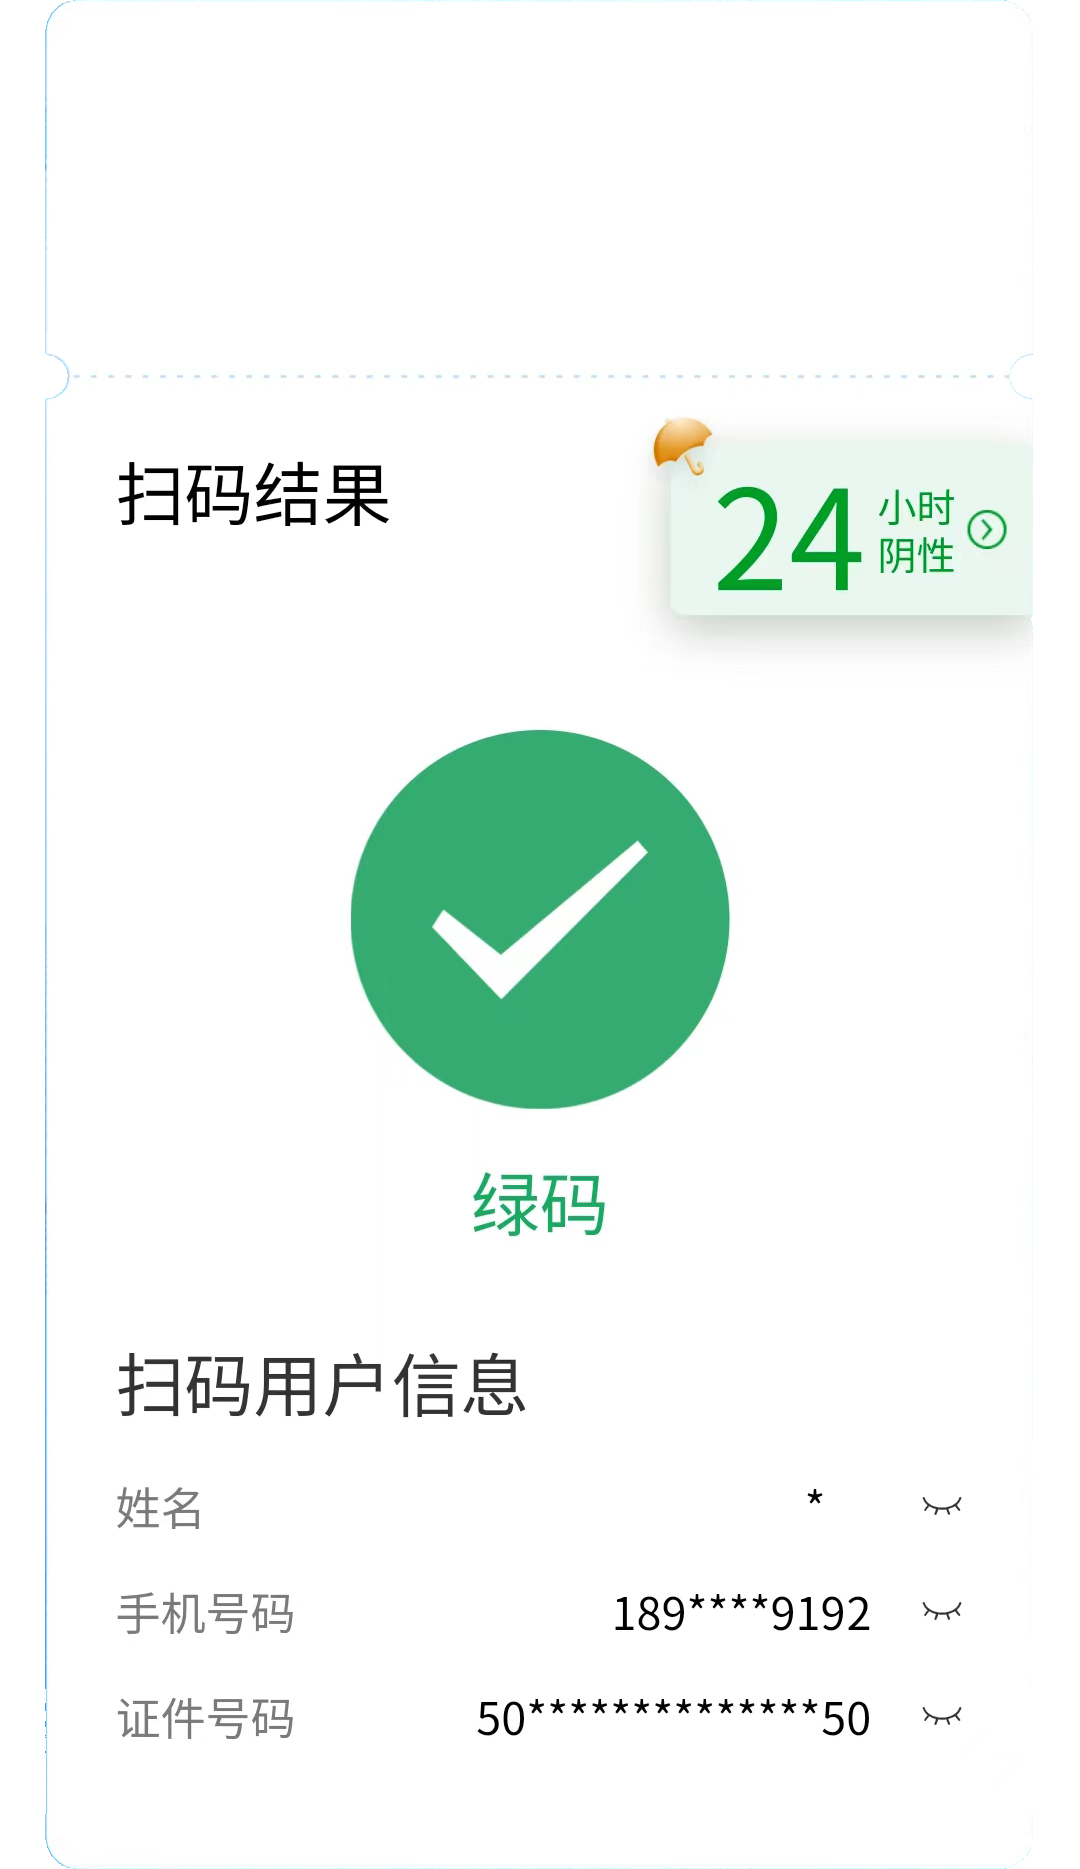
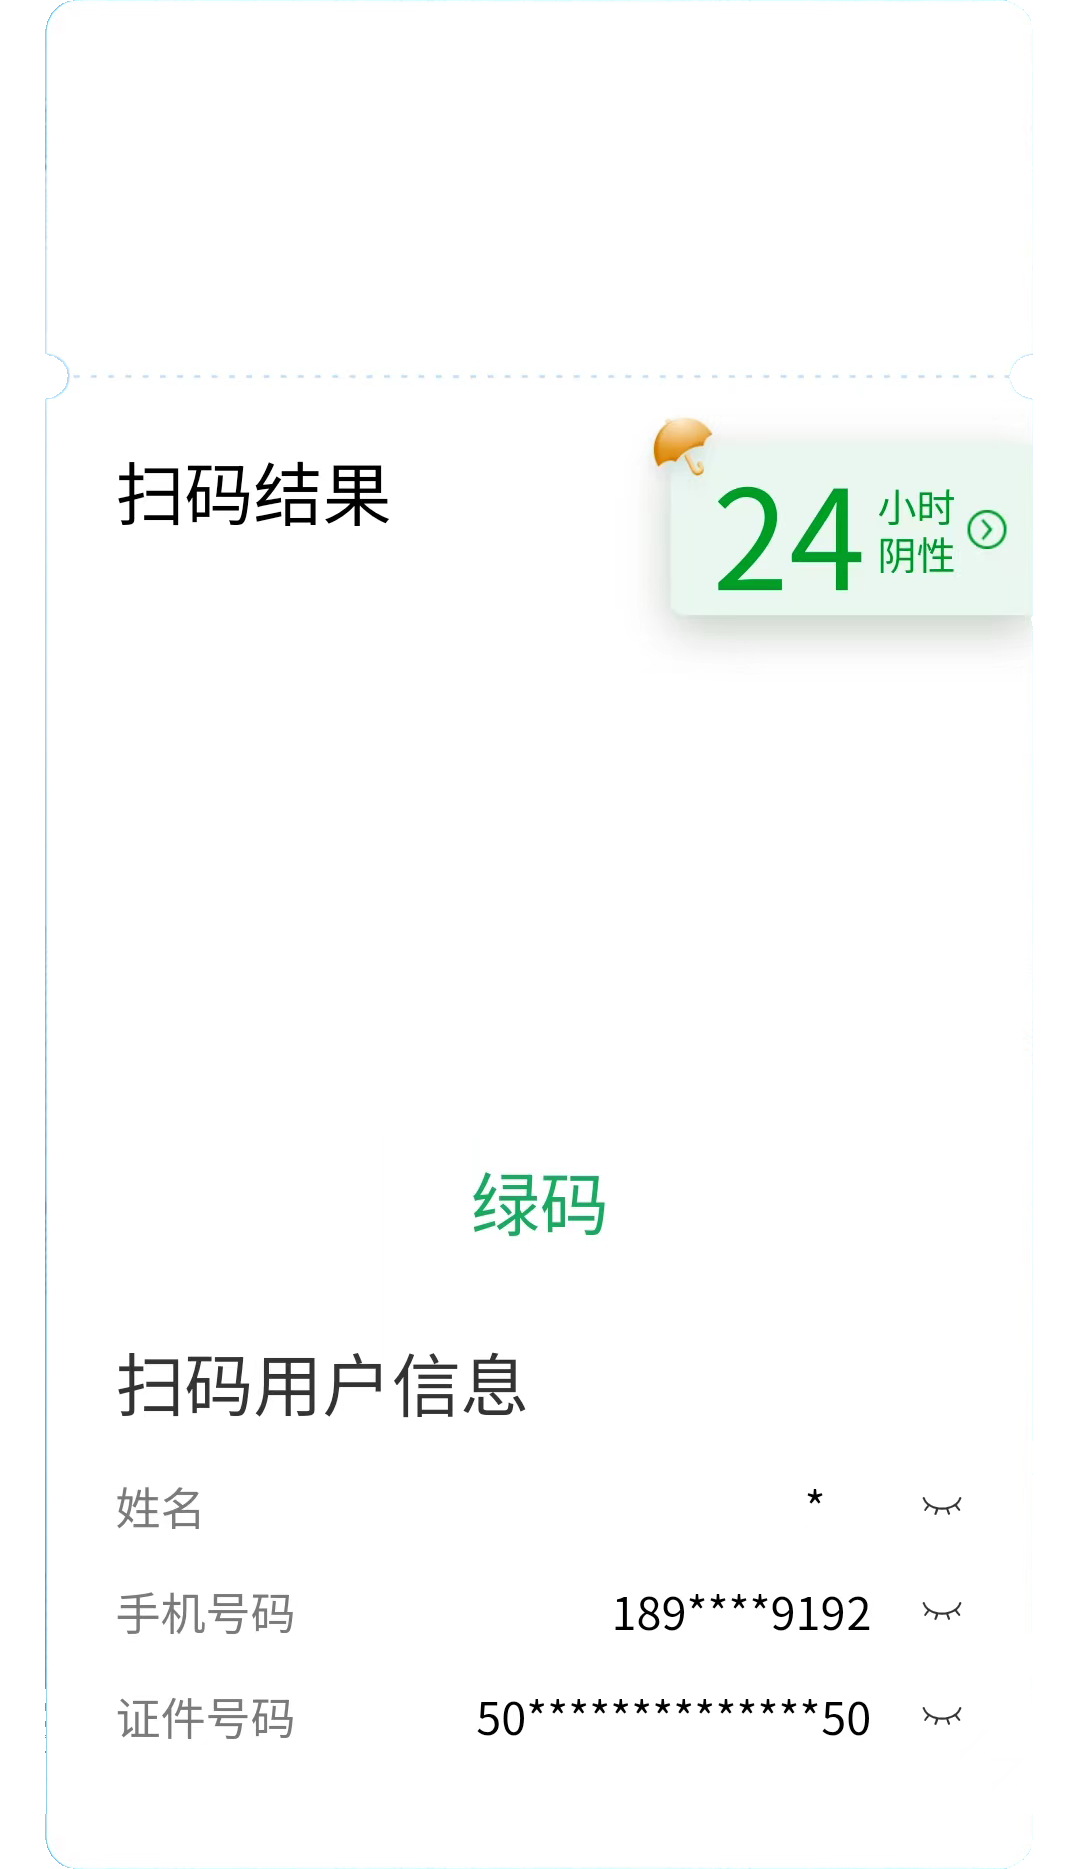
场所码动画

Changed region(s): [[0.3056, 0.3724, 0.6722, 0.6207]]

diff --git a/src/scan_result.js b/src/scan_result.js
@@ -1,14 +1,17 @@
 import React, {useEffect, useRef, useState} from "react";
 import "./scan-result.css";
 import ScanResultImg from './assets/scan_result.png';
+import ScanResultRight from './assets/scan_result_right.png';
 import ScanBtns from './assets/scan_btns.png';
 import ScanBg from './assets/scan_bg.png';
 import { Outlet, Link } from "react-router-dom";
 function ScanResult(){
     let scanBtnRef = useRef();
     let scanResultRef = useRef();
+    let RightRef = useRef();
     let [btnHeight,setBtnHeight] = useState(0);
     let [resultHeight,setResultHeight] = useState(675);
+    let [rightHeight,setRightHeight] = useState(156);
     let [time,setTime] = useState('');
 
     let [location,setLocation] = useState('莎莎一号舞厅91号入口');
@@ -23,6 +26,7 @@ function ScanResult(){
         let times = setInterval(()=>{
             setBtnHeight(scanBtnRef.current.offsetHeight);
             setResultHeight(scanResultRef.current.offsetHeight);
+            setRightHeight(RightRef.current.offsetHeight);
         },300)
         return () => {
             clearInterval(times);
@@ -120,6 +124,9 @@ function ScanResult(){
                 <img className={'scan-bg'} src={ScanBg} alt={''}/>
                 <div className={'scan-result-img-wrapper'} style={{paddingBottom:btnHeight + 15}}>
                     <img className={'scan-result-img'} src={ScanResultImg} alt={''} ref={scanResultRef}/>
+                    <div className={'scan-result-right-wrapper'}  style={{top: resultHeight / 2 - rightHeight / 2}}>
+                        <img className={'scan-result-right anima'} src={ScanResultRight} alt={''} ref={RightRef}/>
+                    </div>
                     <div className={'scan-time'} style={{top:resultHeight / 8 * 2 + 40}}>{time}</div>
                     <div className={'scan-location-location'}>{location}</div>
                     <div className={'scan-location-area'}>重庆市/{area}</div>

diff --git a/src/scan-result.css b/src/scan-result.css
@@ -21,6 +21,45 @@
     width: 100vw;
 }
 
+.scan-result-right-wrapper{
+    width: 100vw;
+    position: absolute;
+    display: flex;
+    justify-content: center;
+}
+
+.scan-result-right{
+    width: 35vw;
+}
+
+
+.anima {
+    animation-name: likes;
+    animation-direction: alternate;
+    animation-timing-function: linear;
+    animation-delay: 0s;
+    animation-iteration-count: infinite;
+    animation-duration: 1s;
+}
+
+@keyframes likes {
+    0%{
+        transform: scale(1);
+    }
+    25%{
+        transform: scale(0.95);
+    }
+    50%{
+        transform: scale(0.89);
+    }
+    75%{
+        transform: scale(0.95);
+    }
+    100%{
+        transform: scale(1);
+    }
+}
+
 .scan-bg {
     width: 100vw;
     position: absolute;
